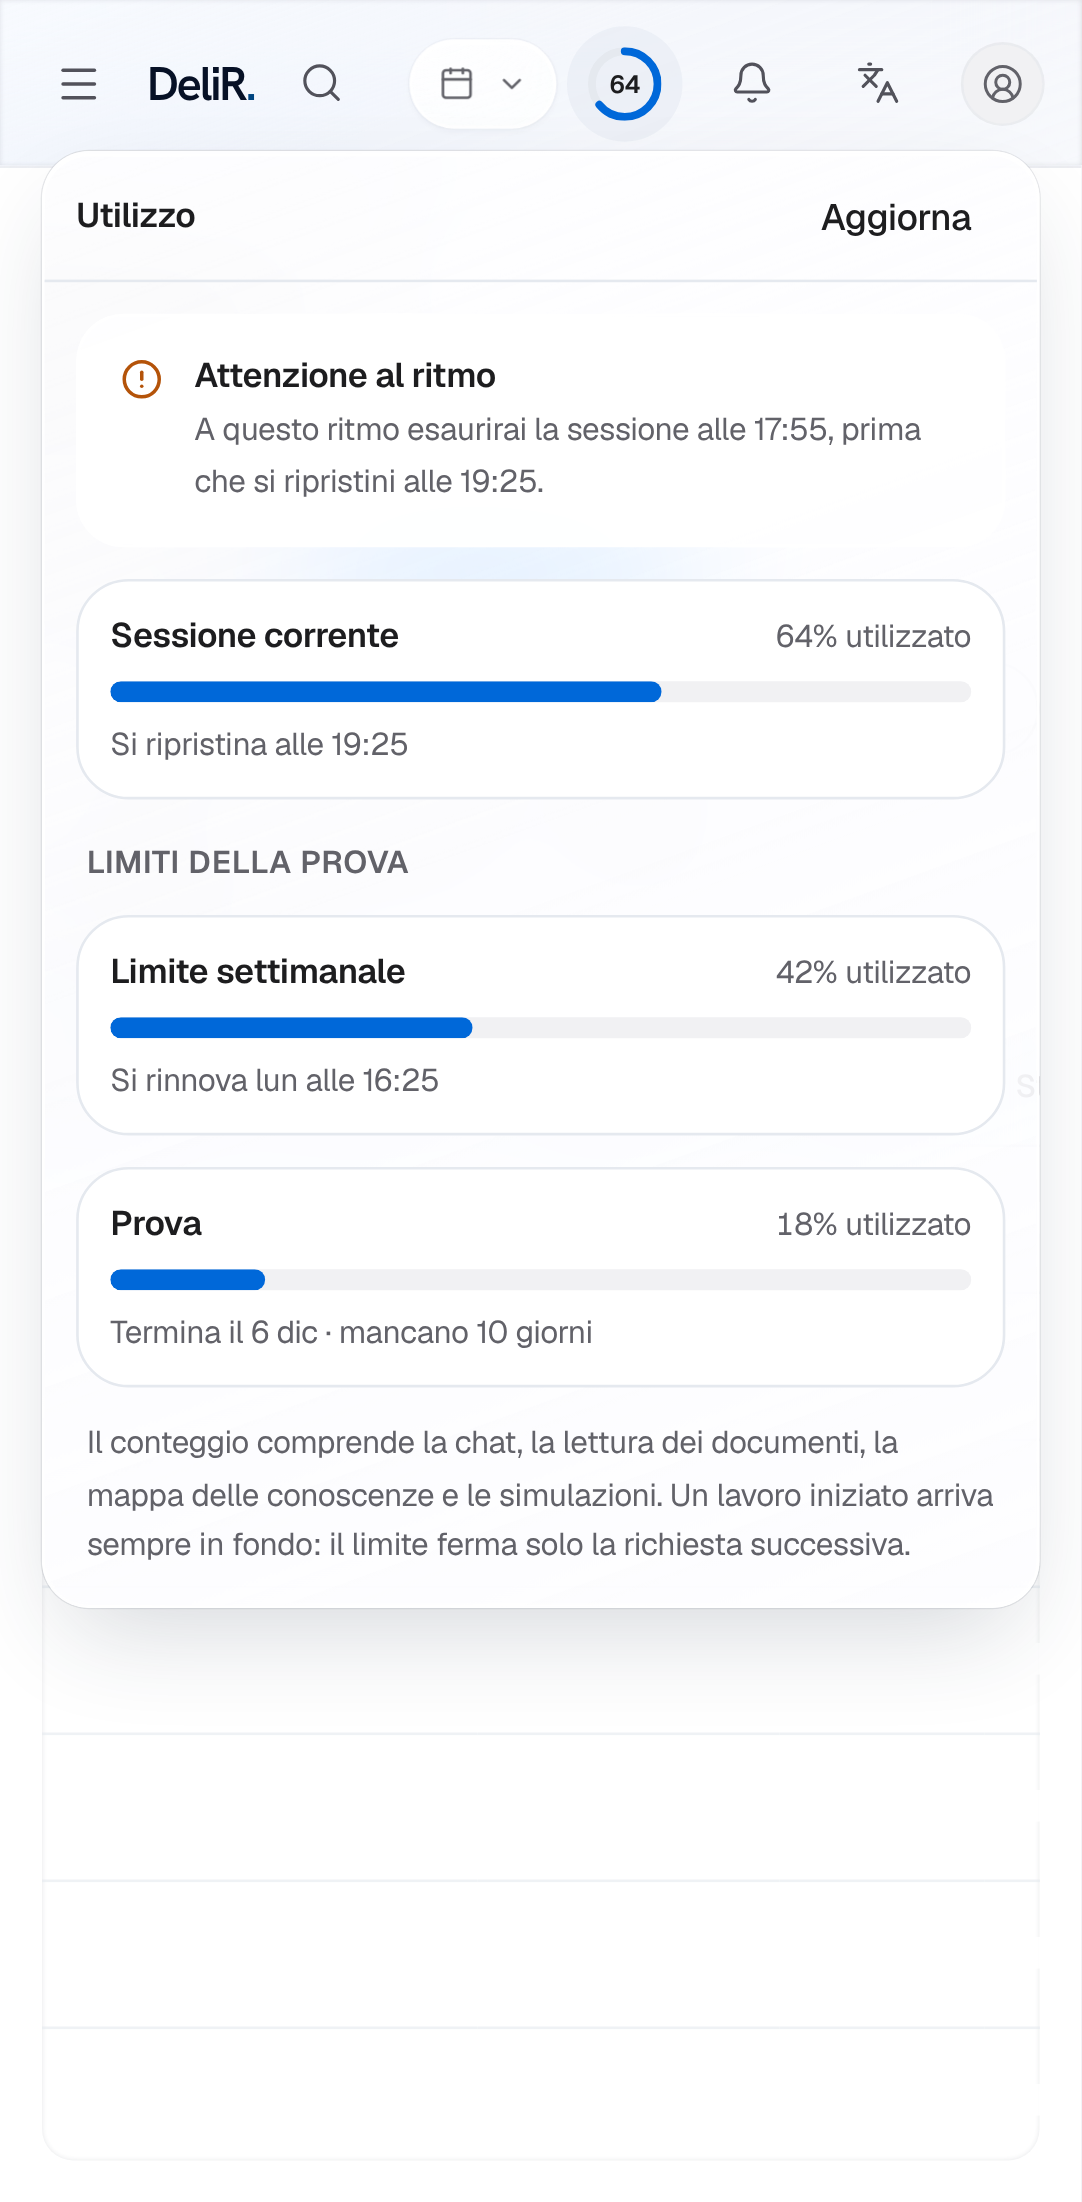
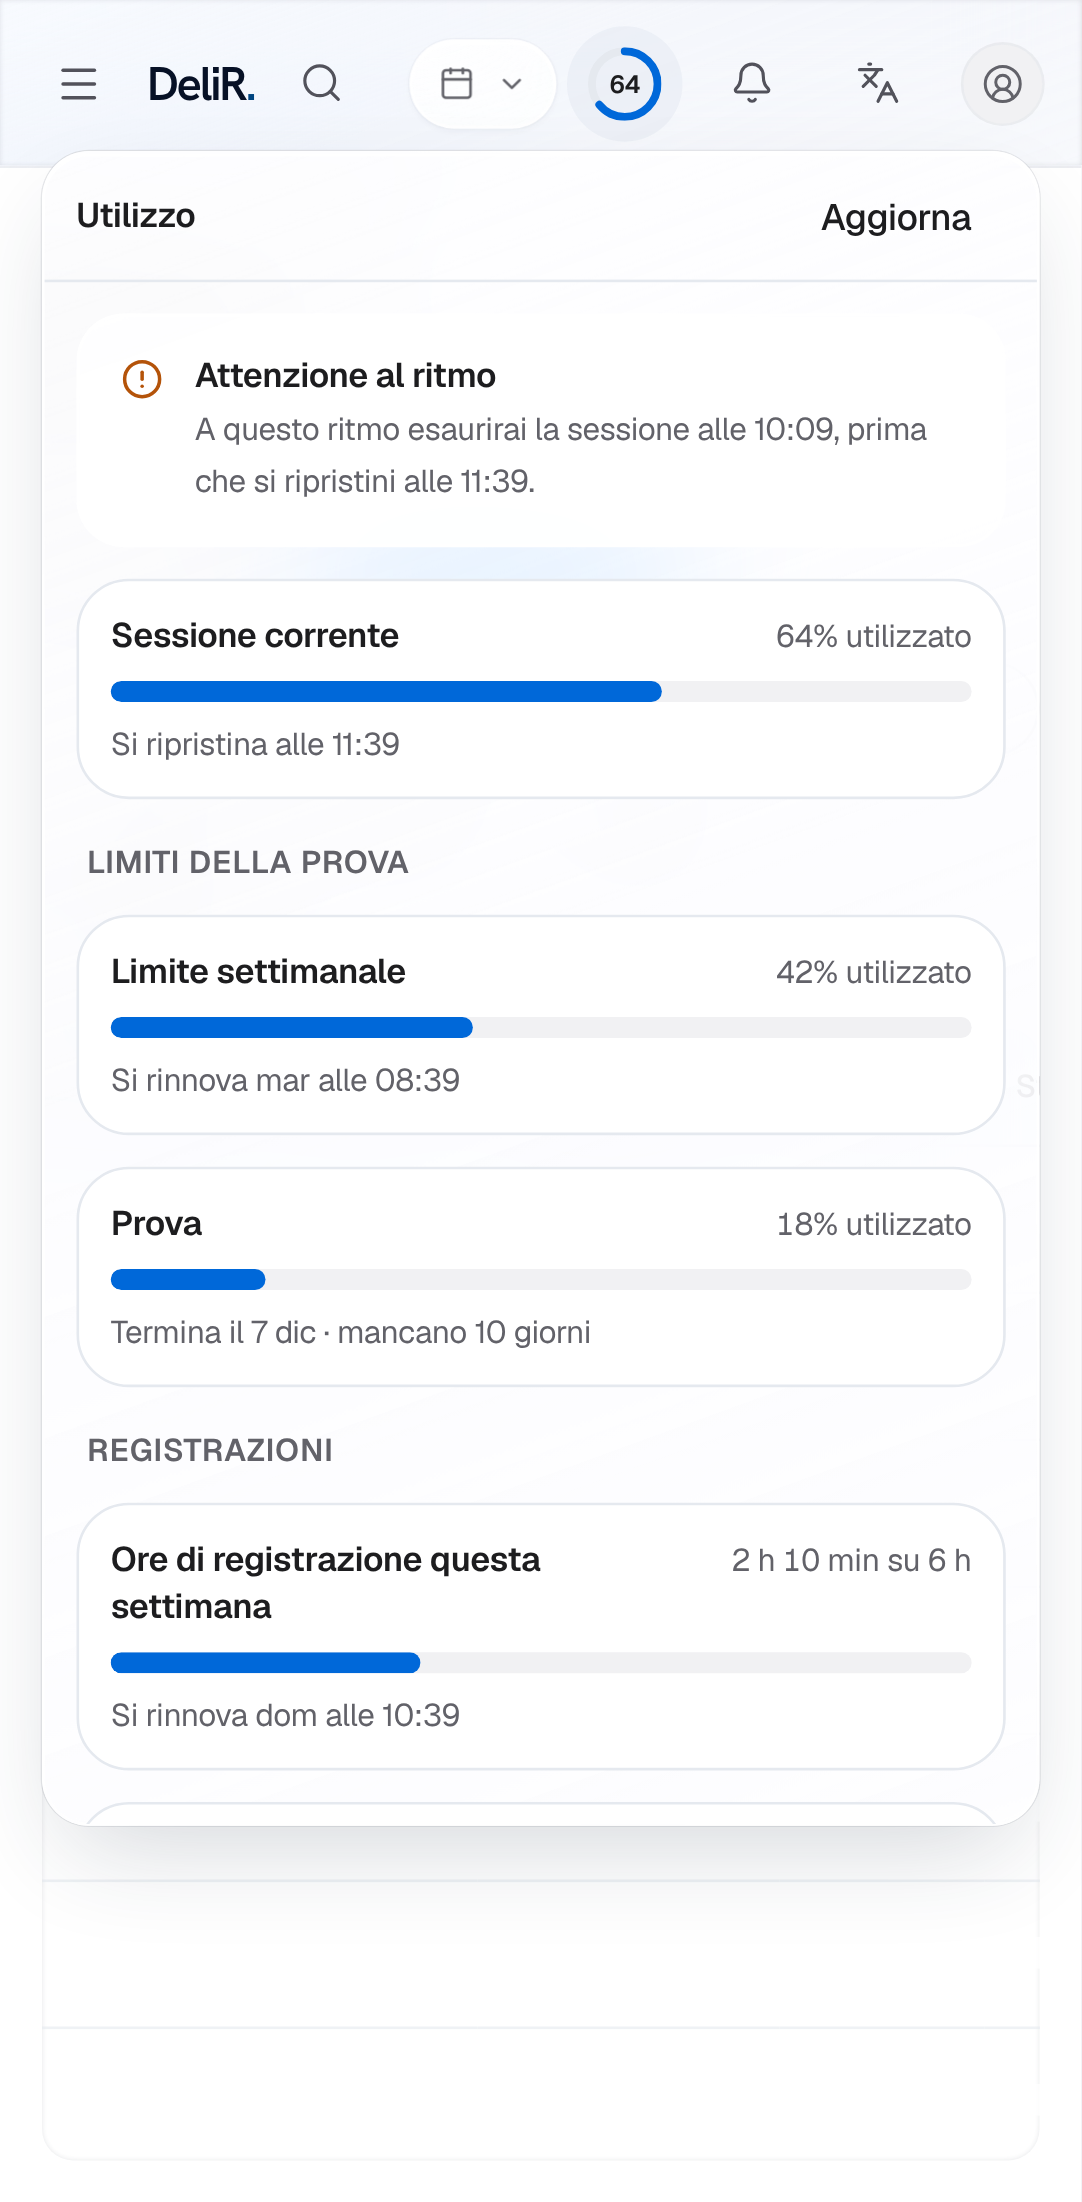
docs(usage): audio in ore nella guida e nella stima; e2e e screenshot con le registrazioni

diff --git a/e2e/usage-meter.spec.ts b/e2e/usage-meter.spec.ts
@@ -20,6 +20,14 @@ function windowState(share: number, resetsInHours: number | null, exhausted = fa
   };
 }
 
+function audio(weekUsed: number, trialUsed: number, blocking: 'week' | 'trial' | null = null) {
+  return {
+    week: { used_seconds: weekUsed, limit_seconds: 6 * 3600, exhausted: weekUsed >= 6 * 3600, resets_at: inHours(50) },
+    trial: { used_seconds: trialUsed, limit_seconds: 10 * 3600, exhausted: trialUsed >= 10 * 3600, resets_at: inHours(24 * 8) },
+    blocking,
+  };
+}
+
 const STATES = {
   forecast: {
     enabled: true,
@@ -29,6 +37,7 @@ const STATES = {
     trial: { ...windowState(0.18, 24 * 10), over: false },
     blocking: null,
     forecast: { window: 'session', exhausts_at: inHours(1.5), resets_at: inHours(3) },
+    audio: audio(2 * 3600 + 600, 3 * 3600),
   },
   nearLimit: {
     enabled: true,
@@ -38,6 +47,17 @@ const STATES = {
     trial: { ...windowState(0.6, 24 * 6), over: false },
     blocking: null,
     forecast: null,
+    audio: audio(5 * 3600 + 1800, 7 * 3600),
+  },
+  audioUsedUp: {
+    enabled: true,
+    session_hours: 5,
+    session: windowState(0.3, 4),
+    week: windowState(0.5, 50),
+    trial: { ...windowState(0.35, 24 * 8), over: false },
+    blocking: null,
+    forecast: null,
+    audio: audio(6 * 3600, 8 * 3600, 'week'),
   },
   blocked: {
     enabled: true,
@@ -47,6 +67,7 @@ const STATES = {
     trial: { ...windowState(0.4, 24 * 8), over: false },
     blocking: 'session',
     forecast: null,
+    audio: audio(3600, 4 * 3600),
   },
 } as const;
 
@@ -71,6 +92,8 @@ for (const [name, body] of Object.entries(STATES)) {
     await expect(page.getByRole('progressbar', { name: 'Limite settimanale' })).toBeVisible();
     if (name === 'blocked') await expect(page.getByRole('alert')).toContainText('Sessione esaurita');
     if (name === 'forecast') await expect(page.getByText('Attenzione al ritmo')).toBeVisible();
+    if (name === 'audioUsedUp') await expect(page.getByText('Ore di registrazione finite')).toBeVisible();
+    await expect(page.getByRole('progressbar', { name: 'Ore di registrazione questa settimana' })).toBeVisible();
 
     await page.screenshot({
       path: `docs/usage-limits/ux/${testInfo.project.name}-${name}.png`,

diff --git a/docs/usage-limits/STIMA.md b/docs/usage-limits/STIMA.md
@@ -82,9 +82,13 @@ $4.46.
 Il prompt più lungo della giornata intensa è di 43.670 token: sotto la soglia dei
 prompt lunghi di entrambi i modelli.
 
-## Un buco trovato con la stima
+## Un buco trovato con la stima (chiuso)
 
-**La trascrizione dal vivo non è misurata né limitata.** Il WebSocket
+**Chiuso il 2026-11-27:** la registrazione dal vivo ora lascia una riga nel
+registro con i secondi di audio e guarda il tetto delle ore all'apertura; l'audio
+ha il suo limite in ore (vedi `CONTATORE.md`).
+
+Com'era: **la trascrizione dal vivo non era misurata né limitata.** Il WebSocket
 `/live-transcription` va direttamente a OpenAI: non apre un'operazione, non scrive
 nel registro dei consumi e non passa dal contatore d'uso. Eppure è la voce più cara
 dell'uso intenso.
@@ -122,7 +126,9 @@ USAGE_SESSION_BUDGET_USD=1.20
 USAGE_WEEK_BUDGET_USD=5.00
 USAGE_TRIAL_BUDGET_USD=10.00
 USAGE_TRIAL_DAYS=14
-LLM_PRICES_JSON={"gpt-6-luna": {"input": 0.10, "output": 0.50, "cached_input": 0.01}, "claude-haiku-5-5": {"input": 0.10, "output": 0.50, "cached_input": 0.01}, "text-embedding-3-small": {"input": 0.02, "output": 0}}
+USAGE_WEEK_AUDIO_HOURS=6
+USAGE_TRIAL_AUDIO_HOURS=10
+LLM_PRICES_JSON={"gpt-6-luna": {"input": 0.10, "output": 0.50, "cached_input": 0.01}, "claude-haiku-5-5": {"input": 0.10, "output": 0.50, "cached_input": 0.01}, "text-embedding-3-small": {"input": 0.02, "output": 0}, "gpt-realtime-whisper": {"per_minute": 0.017}, "gpt-4o-transcribe-diarize": {"per_minute": 0.006}}
 ```
 
 **Il listino va configurato.** Senza, ogni riga si conta al prezzo di ripiego

diff --git a/docs/usage-limits/CONTATORE.md b/docs/usage-limits/CONTATORE.md
@@ -18,6 +18,14 @@ USAGE_WEEK_BUDGET_USD=6
 USAGE_TRIAL_BUDGET_USD=20     # 0 = nessun tetto sulla prova
 USAGE_TRIAL_DAYS=14
 USAGE_UNPRICED_USD_PER_MILLION_TOKENS=10
+USAGE_WEEK_AUDIO_HOURS=6      # ore di registrazione a settimana; 0 = nessun tetto
+USAGE_TRIAL_AUDIO_HOURS=10    # ore di registrazione nella prova
+```
+
+Il listino dell'audio va a minuto:
+
+```bash
+LLM_PRICES_JSON={..., "gpt-realtime-whisper": {"per_minute": 0.017}, "gpt-4o-transcribe-diarize": {"per_minute": 0.006}}
 ```
 
 Note:
@@ -31,6 +39,19 @@ Note:
   dei consumi continua a contare.
 - **Il limite per persona va acceso solo con l'identità Supabase.** Con il token
   condiviso, chi è il consulente lo dice un header scelto dal client.
+
+## L'audio, in ore
+
+Registrazioni dal vivo e file audio trascritti hanno un tetto **in ore**,
+separato dai dollari dei modelli: per la settimana e per la prova. Il consulente
+lo vede nel pannello come "2 h 10 min su 6 h". A ore finite si fermano solo le
+nuove registrazioni e trascrizioni; la chat e il resto continuano.
+
+- **Dal vivo:** si contano i secondi di audio mandati a OpenAI, cioè quello che
+  si paga. La sessione lascia una riga `live_transcription` nel registro alla
+  chiusura e controlla il tetto all'apertura.
+- **File:** la durata viene dalla risposta della trascrizione; il tetto si
+  controlla nella rotta (`require_audio_available`).
 
 ## Le tre finestre
 
